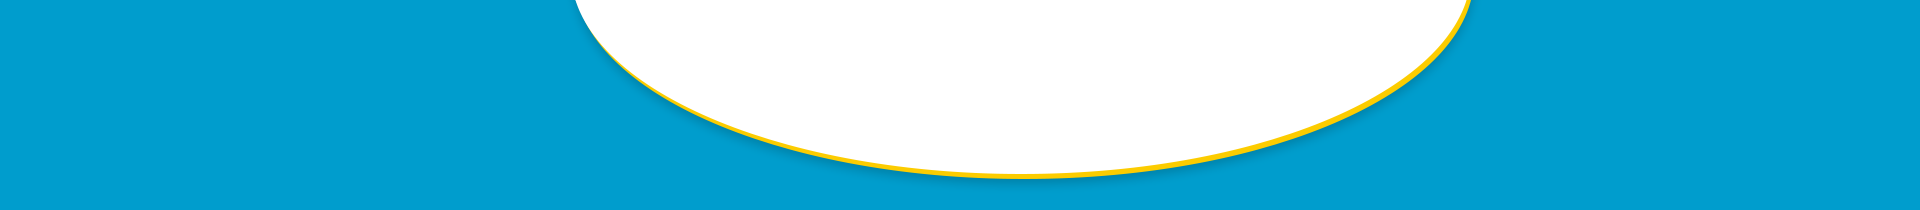
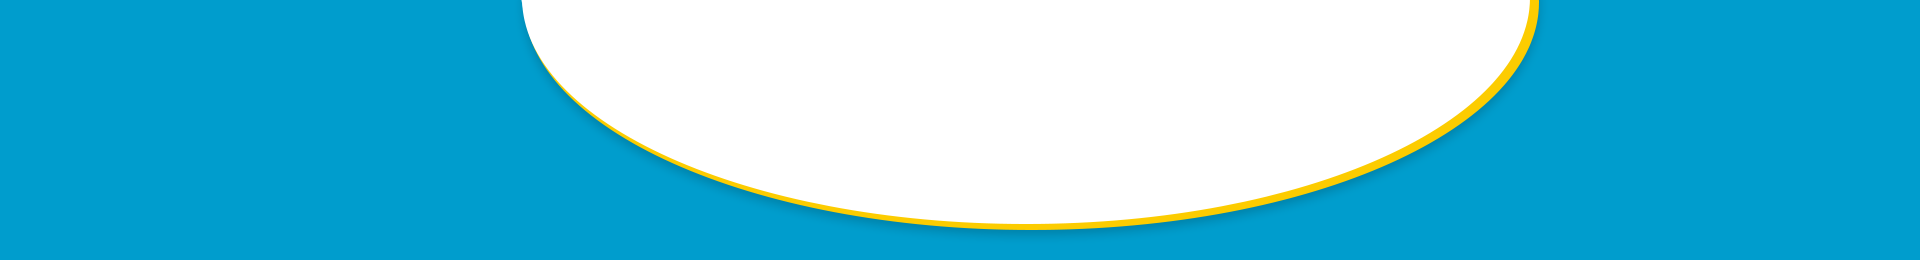
Image Slider Fixed

Changed region(s): [[0.25, 0.0, 0.8125, 0.8857]]

diff --git a/src/views/StoreMenu.vue b/src/views/StoreMenu.vue
@@ -66,6 +66,19 @@
   background-position-x: center;
   background-position-y: bottom;
   background-repeat: no-repeat;
+  background-size: auto;
+}
+
+
+@media screen and (max-width: 768px) {
+  .store-menu-page .store-image-slider-container .overlay{
+    background-size: 1700px;
+  }
+}
+@media screen and (max-width: 450px) {
+  .store-menu-page .store-image-slider-container .overlay{
+    background-size: 1000px;
+  }
 }
 .store-menu-page .groups-container{
   border-bottom: 1px solid lightgray;
@@ -206,6 +219,7 @@
     border: 4px solid #666;
 }
 .store-menu-page ion-footer{
+  display: block !important;
   text-align: center;
   padding: 2em;
   border-top-left-radius: 15px;
@@ -226,11 +240,14 @@
       <div style="background-color: #1380c1; padding-bottom: 15px;"> 
         <div class="store-info-container">
           <div class="store-image-slider-container">
-            <image-slider :imageList="storeItem.images" :imgHeight="200" :mode="'crop-to-fit'"></image-slider>
-            <div class="overlay" style="background-image: url(/img/store_menu_background_full.png); background-size: auto;"></div>
+            <image-slider :imageList="storeItem.images" :imgHeight="250" :mode="'crop-to-fit'"></image-slider>
+            <div class="overlay" style="background-image: url(/img/store_menu_background_full.png); "></div>
           </div>
-          <div class="avatar">
-            <img alt="Silhouette of a person's head" :src="$heap.state.hostname+'image/get.php/'+storeItem.avatarImage+'.200.200.webp'" />
+          <div class="avatar" v-if="storeItem.avatarImage">
+            <img :alt="storeItem.store_name" :src="$heap.state.hostname+'image/get.php/'+storeItem.avatarImage+'.200.200.webp'" />
+          </div>
+          <div v-else>
+            <h2>{{storeItem.store_name}}</h2>
           </div>
 
           <div v-if="storeGroups" class="group-fixed-block hidden-block">

diff --git a/src/components/imageSlider.vue b/src/components/imageSlider.vue
@@ -1,5 +1,8 @@
 <style scoped>
     .swiper  .cropper.crop-to-fit{
+      display: flex;
+      justify-content: center;
+      align-items: center;
       overflow: hidden;
       width: 100%;
     }
@@ -7,8 +10,30 @@
       padding: 10%;
     }
     .swiper .cropper.crop-to-fit img {
-      max-width: unset;
+      min-width: 100%;
     }
+    .swiper .cropper.save-aspect-ratio{
+      display: block;
+      height: auto !important;
+    }
+    .swiper .cropper.save-aspect-ratio img{
+      max-width: 400px;
+      margin: 0 auto;
+      display: block;
+    }
+
+    
+  @media screen and (max-width: 740px) {
+      .swiper .cropper.crop-to-fit img {
+        max-width: unset;
+        min-width: 120%;
+      }
+      .swiper .cropper.save-aspect-ratio img{
+        min-height: unset !important;
+        max-width: 100% !important;
+      }
+    }
+
 </style>
 
 <template>
@@ -24,7 +49,7 @@
   </div>
   <swiper v-else :modules="modules" :autoplay='{delay: 3000, disableOnInteraction: false}' :loop="true" effect="fade"  :style="`height: ${imgHeight||'100%'};`" >
     <swiper-slide v-for="image in imageList" :key="image.image_hash">
-      <div :class="`${mode} cropper`" :style="`height: ${imgHeight+'px'||'100%'};`">
+      <div :class="`${(mode) ? mode: ''} cropper`" :style="`height: ${imgHeight+'px'||'100%'};`">
         <img :style="`min-height: ${imgHeight+'px;'||'100%; max-width: 400px;'}`" :src="`${$heap.state.hostname}image/get.php/${image.image_hash}.${imgHeight*4||1200}.${imgHeight*4||1200}.webp`"/>
       </div>
     </swiper-slide>

diff --git a/src/views/ProductView.vue b/src/views/ProductView.vue
@@ -37,7 +37,7 @@ ion-accordion-group .accordion-expanding .product-description{
 <template>
   <base-layout :page-title="productItem?.product_name "  pageDefaultBackLink="/catalog" :cartComponent="CartHeader">
       <div class="product-images">
-        <image-slider v-if="productItem" :imageList="productItem.images"  />
+        <image-slider v-if="productItem" :imageList="productItem.images" :imgHeight="400" :mode="'save-aspect-ratio'" />
         <ion-chip color="dark" @click="$router.push('/catalog/product-edit-'+productId)" class="product-subactions">
           <ion-icon color="primary" :src="settingsOutline"/>
           <ion-text>Редактировать</ion-text>

diff --git a/src/views/StoreView.vue b/src/views/StoreView.vue
@@ -242,7 +242,7 @@ ion-chip .active-chip {
       <image-slider :imageList="storeItem.images" :imgHeight="200" :mode="'crop-to-fit'"></image-slider>
       <ion-list  class="store-info">
         <ion-item lines="none">
-          <div slot="start" class="avatar-container">
+          <div v-if="storeItem.avatarImage" slot="start" class="avatar-container">
             <div class="avatar">
               <img alt="Silhouette of a person's head" :src="$heap.state.hostname+'image/get.php/'+storeItem.avatarImage+'.200.200.webp'" />
             </div>
